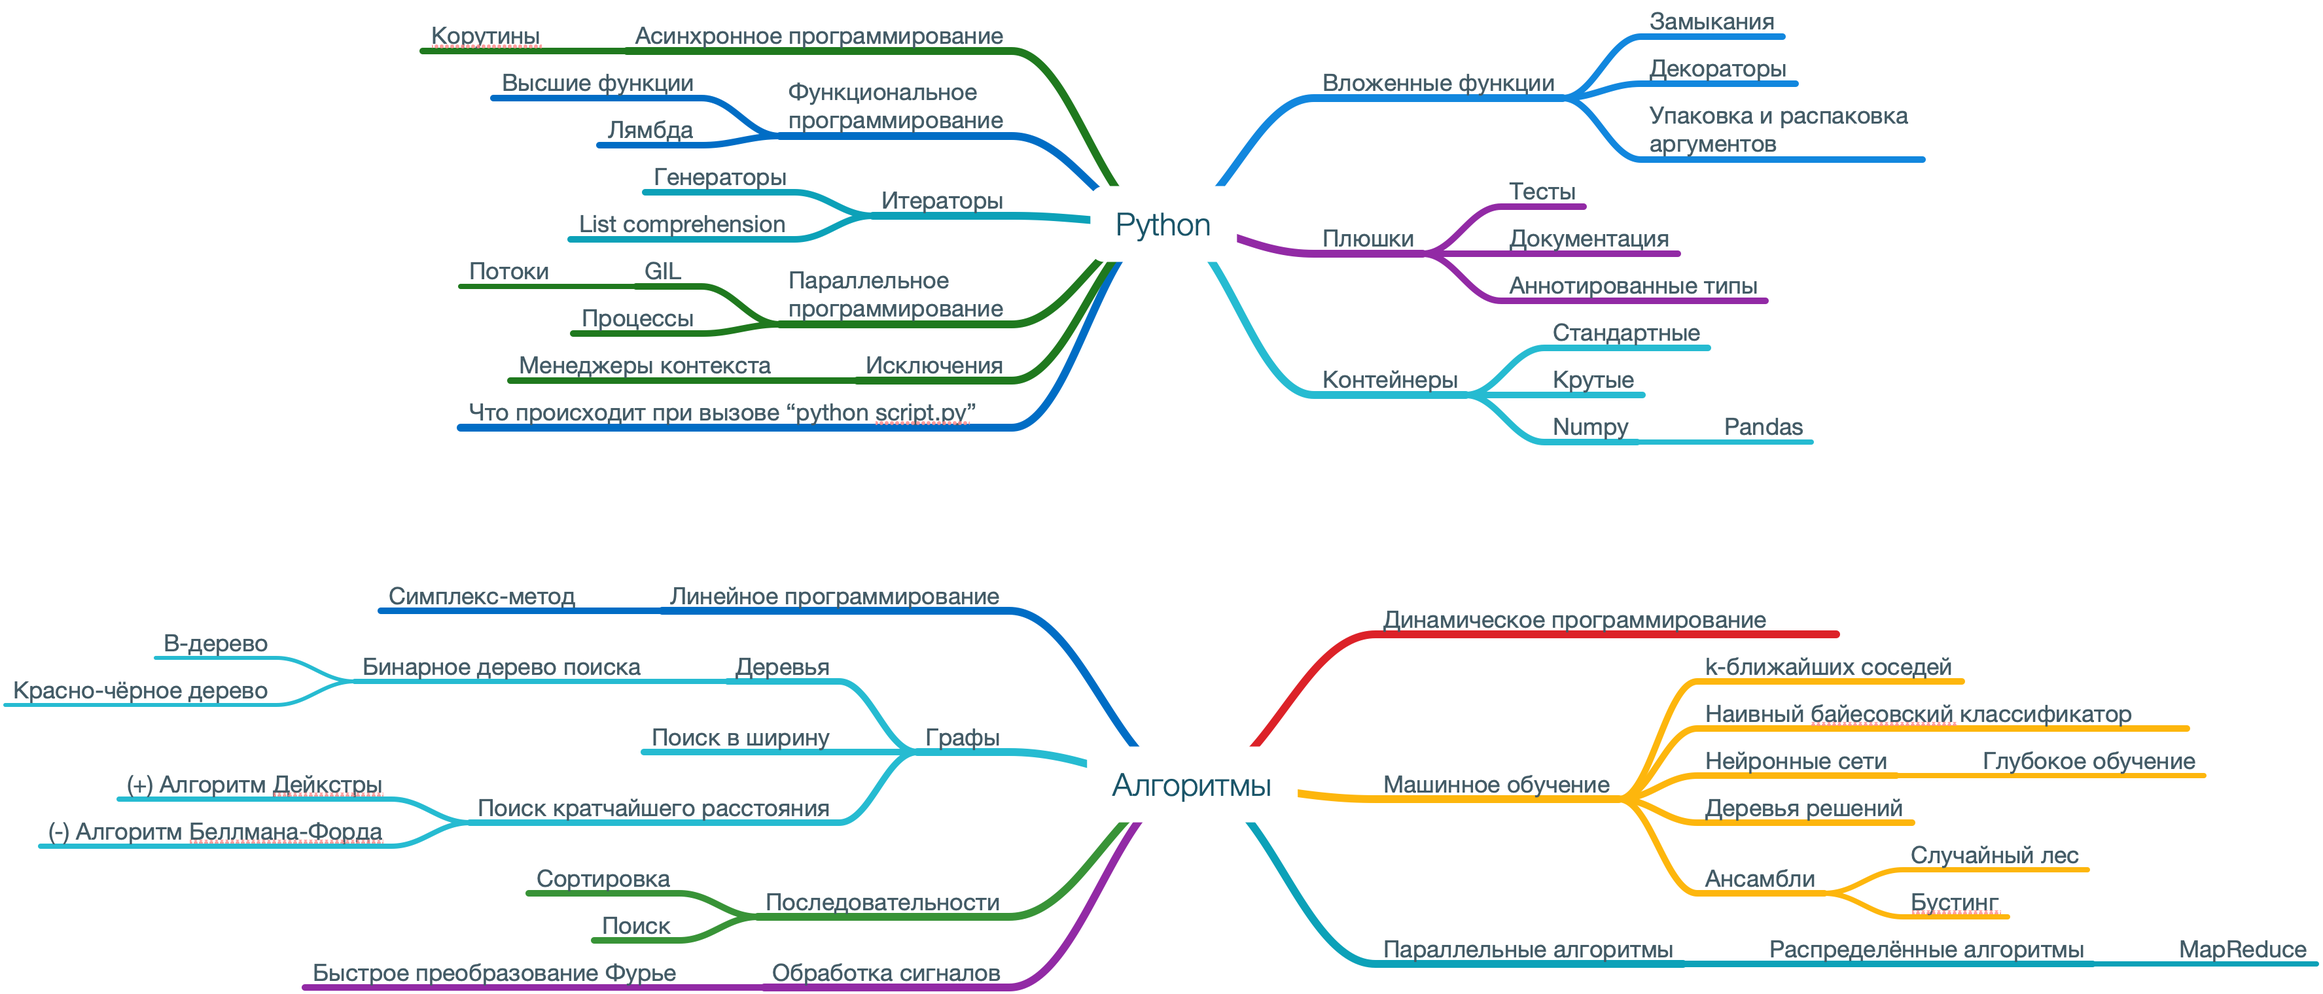
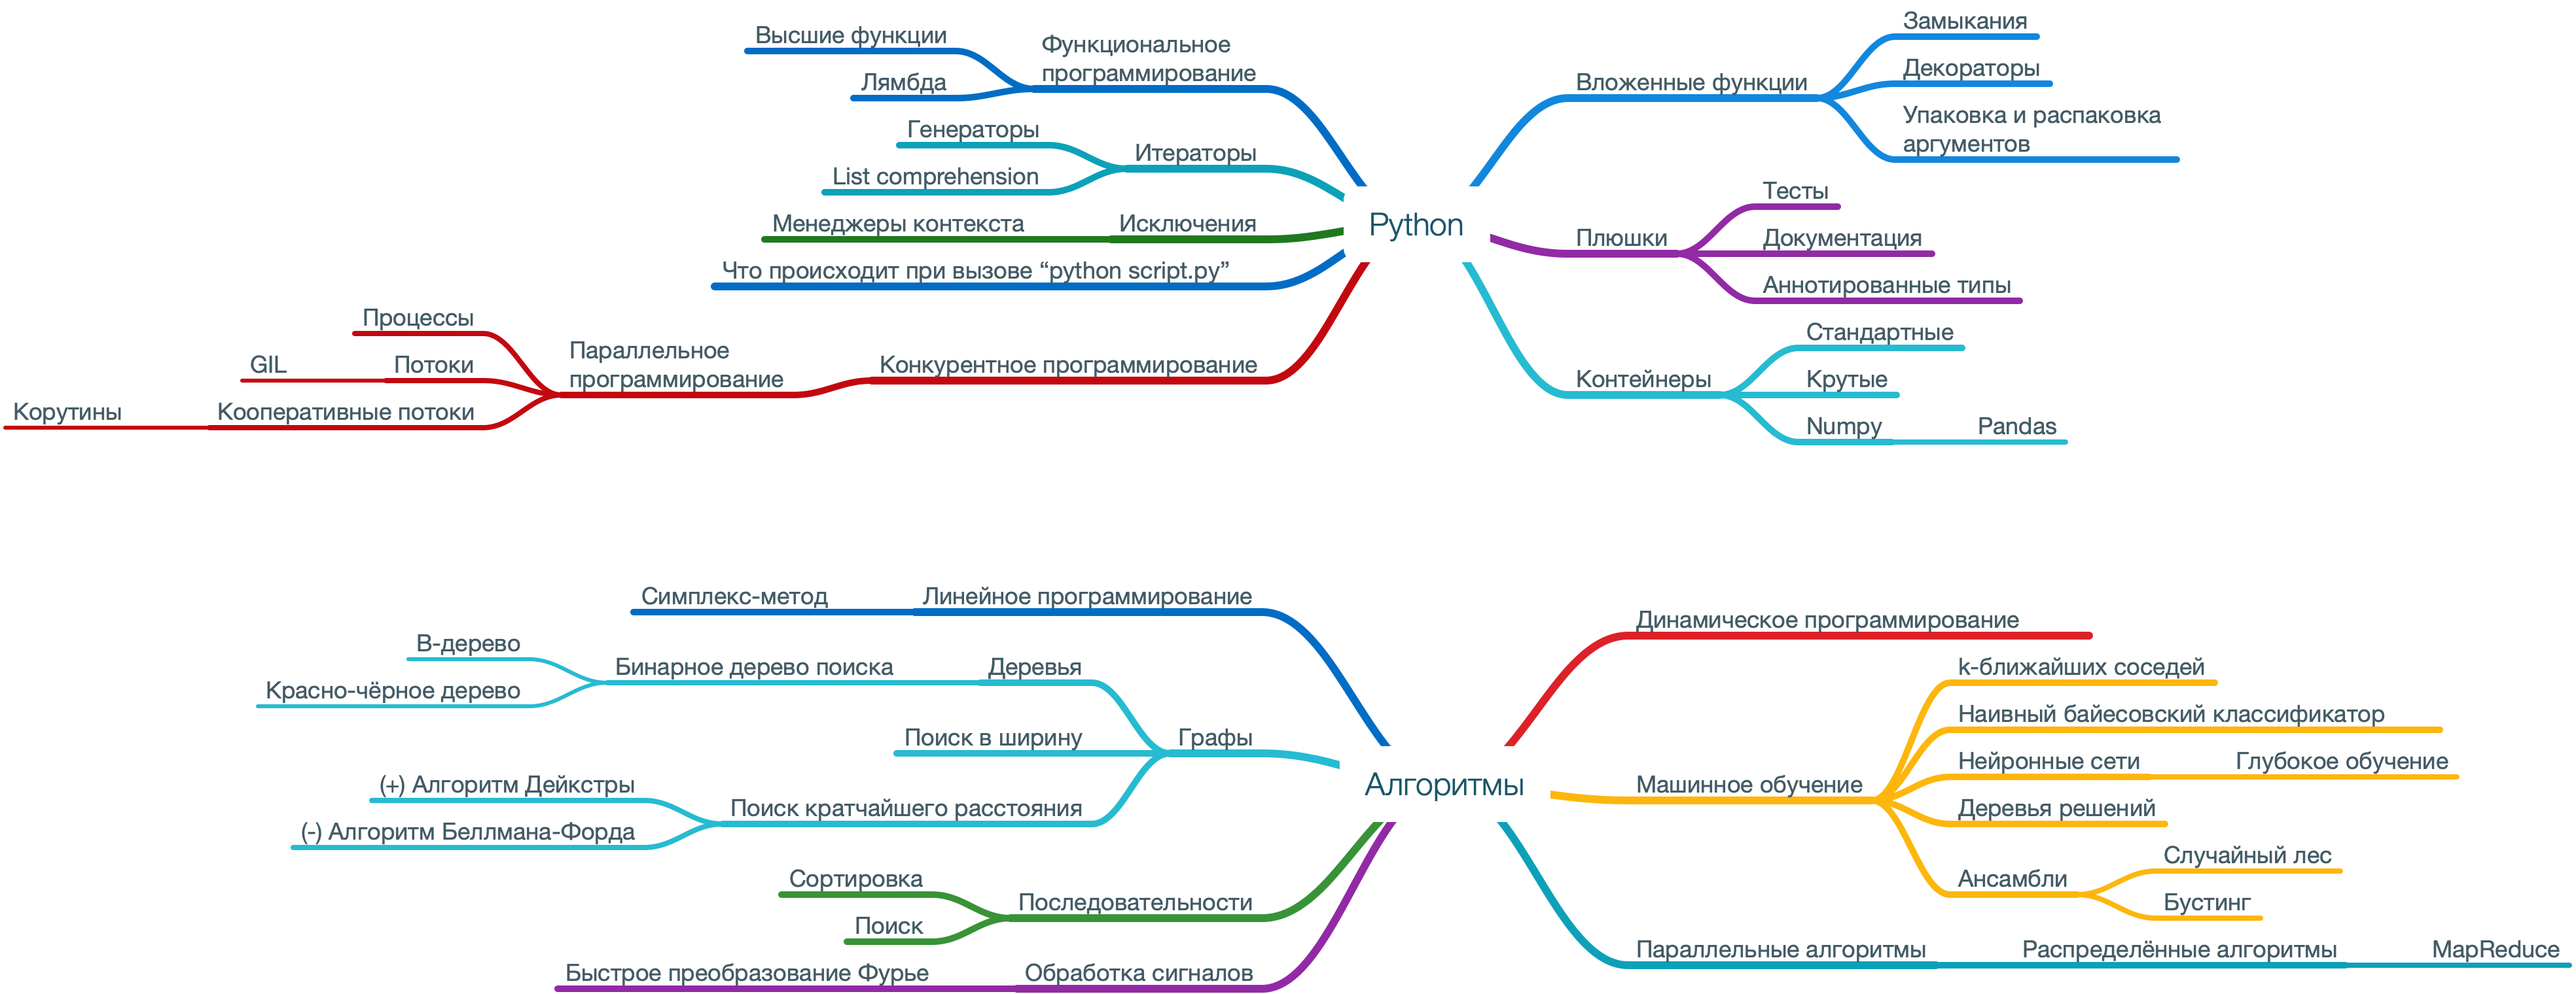
refact(syllabus): change structure (concurrent)

Changed region(s): [[0.0, 0.5875, 1.0, 1.0], [0.0, 0.0, 0.8366, 0.4638], [0.5268, 0.7112, 0.5577, 0.7421]]

diff --git a/syllabus/syllabus.mm b/syllabus/syllabus.mm
@@ -11,20 +11,21 @@
 <node ID="4914A1A3-D3C8-4916-B5EC-4465EC121BB1" TEXT="Numpy" COLOR="#435B66" POSITION="right" STYLE="fork"><edge COLOR="#25BAD1" WIDTH="5" /><font NAME="HelveticaNeue" SIZE="18" /><node ID="6E85FA9A-EE04-4BBD-9E30-794FDA604EE5" TEXT="Pandas" COLOR="#435B66" POSITION="right" STYLE="fork"><edge COLOR="#25BAD1" WIDTH="4" /><font NAME="HelveticaNeue" SIZE="18" /></node>
 </node>
 </node>
+<node ID="6754BD95-4182-4B3D-8F00-1810D59CEC2F" TEXT="&#1050;&#1086;&#1085;&#1082;&#1091;&#1088;&#1077;&#1085;&#1090;&#1085;&#1086;&#1077; &#1087;&#1088;&#1086;&#1075;&#1088;&#1072;&#1084;&#1084;&#1080;&#1088;&#1086;&#1074;&#1072;&#1085;&#1080;&#1077;" COLOR="#435B66" POSITION="left" STYLE="fork"><edge COLOR="#C2080E" WIDTH="6" /><font NAME="HelveticaNeue" SIZE="18" /><node ID="66A47761-E77B-493F-B1D4-94261B262399" TEXT="&#1055;&#1072;&#1088;&#1072;&#1083;&#1083;&#1077;&#1083;&#1100;&#1085;&#1086;&#1077; &#1087;&#1088;&#1086;&#1075;&#1088;&#1072;&#1084;&#1084;&#1080;&#1088;&#1086;&#1074;&#1072;&#1085;&#1080;&#1077;" COLOR="#435B66" POSITION="left" STYLE="fork"><edge COLOR="#C2080E" WIDTH="5" /><font NAME="HelveticaNeue" SIZE="18" /><node ID="8BE22D6B-E8D3-4302-A9FA-6F79E8D7E5BE" TEXT="&#1055;&#1088;&#1086;&#1094;&#1077;&#1089;&#1089;&#1099;" COLOR="#435B66" POSITION="left" STYLE="fork"><edge COLOR="#C2080E" WIDTH="4" /><font NAME="HelveticaNeue" SIZE="18" /></node>
+<node ID="86AAF1B8-3C6A-4707-A266-716EDDB0474A" TEXT="&#1055;&#1086;&#1090;&#1086;&#1082;&#1080;" COLOR="#435B66" POSITION="left" STYLE="fork"><edge COLOR="#C2080E" WIDTH="4" /><font NAME="HelveticaNeue" SIZE="18" /><node ID="9A3A2B6B-5128-4739-B226-1E0295A96310" TEXT="GIL" COLOR="#435B66" POSITION="left" STYLE="fork"><edge COLOR="#C2080E" WIDTH="3" /><font NAME="HelveticaNeue" SIZE="18" /></node>
+</node>
+<node ID="165CEF05-E71B-45F9-ABF7-5D7DF8C6F408" TEXT="&#1050;&#1086;&#1086;&#1087;&#1077;&#1088;&#1072;&#1090;&#1080;&#1074;&#1085;&#1099;&#1077; &#1087;&#1086;&#1090;&#1086;&#1082;&#1080;" COLOR="#435B66" POSITION="left" STYLE="fork"><edge COLOR="#C2080E" WIDTH="4" /><font NAME="HelveticaNeue" SIZE="18" /><node ID="AE547C02-1C89-4541-ADF3-5EDC9BA7C2FD" TEXT="&#1050;&#1086;&#1088;&#1091;&#1090;&#1080;&#1085;&#1099;" COLOR="#435B66" POSITION="left" STYLE="fork"><edge COLOR="#C2080E" WIDTH="3" /><font NAME="HelveticaNeue" SIZE="18" /></node>
+</node>
+</node>
+</node>
 <node ID="9AE8308B-0A88-42BA-883C-6E2BC09299FC" TEXT="&#1063;&#1090;&#1086; &#1087;&#1088;&#1086;&#1080;&#1089;&#1093;&#1086;&#1076;&#1080;&#1090; &#1087;&#1088;&#1080; &#1074;&#1099;&#1079;&#1086;&#1074;&#1077; &#8220;python script.py&#8221;" COLOR="#435B66" POSITION="left" STYLE="fork"><edge COLOR="#FFFFFFF96DC4" WIDTH="6" /><font NAME="HelveticaNeue" SIZE="18" /></node>
 <node ID="3A136F90-0D0A-4A54-996C-5917B5346931" TEXT="&#1048;&#1089;&#1082;&#1083;&#1102;&#1095;&#1077;&#1085;&#1080;&#1103;" COLOR="#435B66" POSITION="left" STYLE="fork"><edge COLOR="#1E791D" WIDTH="6" /><font NAME="HelveticaNeue" SIZE="18" /><node ID="5353EF42-4396-4D8C-A4C2-7AAA2B005B3D" TEXT="&#1052;&#1077;&#1085;&#1077;&#1076;&#1078;&#1077;&#1088;&#1099; &#1082;&#1086;&#1085;&#1090;&#1077;&#1082;&#1089;&#1090;&#1072;" COLOR="#435B66" POSITION="left" STYLE="fork"><edge COLOR="#1E791D" WIDTH="5" /><font NAME="HelveticaNeue" SIZE="18" /></node>
-</node>
-<node ID="66A47761-E77B-493F-B1D4-94261B262399" TEXT="&#1055;&#1072;&#1088;&#1072;&#1083;&#1083;&#1077;&#1083;&#1100;&#1085;&#1086;&#1077; &#1087;&#1088;&#1086;&#1075;&#1088;&#1072;&#1084;&#1084;&#1080;&#1088;&#1086;&#1074;&#1072;&#1085;&#1080;&#1077;" COLOR="#435B66" POSITION="left" STYLE="fork"><edge COLOR="#1E791D" WIDTH="6" /><font NAME="HelveticaNeue" SIZE="18" /><node ID="9A3A2B6B-5128-4739-B226-1E0295A96310" TEXT="GIL" COLOR="#435B66" POSITION="left" STYLE="fork"><edge COLOR="#1E791D" WIDTH="5" /><font NAME="HelveticaNeue" SIZE="18" /><node ID="86AAF1B8-3C6A-4707-A266-716EDDB0474A" TEXT="&#1055;&#1086;&#1090;&#1086;&#1082;&#1080;" COLOR="#435B66" POSITION="left" STYLE="fork"><edge COLOR="#1E791D" WIDTH="4" /><font NAME="HelveticaNeue" SIZE="18" /></node>
-</node>
-<node ID="8BE22D6B-E8D3-4302-A9FA-6F79E8D7E5BE" TEXT="&#1055;&#1088;&#1086;&#1094;&#1077;&#1089;&#1089;&#1099;" COLOR="#435B66" POSITION="left" STYLE="fork"><edge COLOR="#1E791D" WIDTH="5" /><font NAME="HelveticaNeue" SIZE="18" /></node>
 </node>
 <node ID="4DFD10A2-0723-4BFA-BD3E-AE9DD8A9BE47" TEXT="&#1048;&#1090;&#1077;&#1088;&#1072;&#1090;&#1086;&#1088;&#1099;" COLOR="#435B66" POSITION="left" STYLE="fork"><edge COLOR="#0CA1B7" WIDTH="6" /><font NAME="HelveticaNeue" SIZE="18" /><node ID="C31E5DC9-A7F6-4822-9FB4-04D899892C25" TEXT="&#1043;&#1077;&#1085;&#1077;&#1088;&#1072;&#1090;&#1086;&#1088;&#1099;" COLOR="#435B66" POSITION="left" STYLE="fork"><edge COLOR="#0CA1B7" WIDTH="5" /><font NAME="HelveticaNeue" SIZE="18" /></node>
 <node ID="B864BCEE-B2E5-4611-850F-19069CE025E5" TEXT="List comprehension" COLOR="#435B66" POSITION="left" STYLE="fork"><edge COLOR="#0CA1B7" WIDTH="5" /><font NAME="HelveticaNeue" SIZE="18" /></node>
 </node>
 <node ID="AC5FD80B-E912-40C0-8AD0-8BE72EB3E52E" TEXT="&#1060;&#1091;&#1085;&#1082;&#1094;&#1080;&#1086;&#1085;&#1072;&#1083;&#1100;&#1085;&#1086;&#1077; &#1087;&#1088;&#1086;&#1075;&#1088;&#1072;&#1084;&#1084;&#1080;&#1088;&#1086;&#1074;&#1072;&#1085;&#1080;&#1077;" COLOR="#435B66" POSITION="left" STYLE="fork"><edge COLOR="#FFFFFFF96DC4" WIDTH="6" /><font NAME="HelveticaNeue" SIZE="18" /><node ID="43519BC4-B119-4496-8AB8-5BD52759E6C2" TEXT="&#1042;&#1099;&#1089;&#1096;&#1080;&#1077; &#1092;&#1091;&#1085;&#1082;&#1094;&#1080;&#1080;" COLOR="#435B66" POSITION="left" STYLE="fork"><edge COLOR="#FFFFFFF96DC4" WIDTH="5" /><font NAME="HelveticaNeue" SIZE="18" /></node>
 <node ID="A69CE892-3B4A-46F9-9709-021C9DD6165F" TEXT="&#1051;&#1103;&#1084;&#1073;&#1076;&#1072;" COLOR="#435B66" POSITION="left" STYLE="fork"><edge COLOR="#FFFFFFF96DC4" WIDTH="5" /><font NAME="HelveticaNeue" SIZE="18" /></node>
-</node>
-<node ID="8BC8C82E-9962-489D-BABC-7269F31B2695" TEXT="&#1040;&#1089;&#1080;&#1085;&#1093;&#1088;&#1086;&#1085;&#1085;&#1086;&#1077; &#1087;&#1088;&#1086;&#1075;&#1088;&#1072;&#1084;&#1084;&#1080;&#1088;&#1086;&#1074;&#1072;&#1085;&#1080;&#1077;" COLOR="#435B66" POSITION="left" STYLE="fork"><edge COLOR="#1E791D" WIDTH="6" /><font NAME="HelveticaNeue" SIZE="18" /><node ID="AE547C02-1C89-4541-ADF3-5EDC9BA7C2FD" TEXT="&#1050;&#1086;&#1088;&#1091;&#1090;&#1080;&#1085;&#1099;" COLOR="#435B66" POSITION="left" STYLE="fork"><edge COLOR="#1E791D" WIDTH="5" /><font NAME="HelveticaNeue" SIZE="18" /></node>
 </node>
 </node>
 <node ID="05D69DCE-BC29-4180-AEC7-58F980B44084" BACKGROUND_COLOR="#FFFFFF" TEXT="&#1040;&#1083;&#1075;&#1086;&#1088;&#1080;&#1090;&#1084;&#1099;" COLOR="#1A5569" POSITION="right" STYLE="bubble"><edge COLOR="#1A5469" WIDTH="4" /><font NAME="HelveticaNeue-Light" SIZE="24" /><node ID="9CC39741-769A-455E-8AC3-24665DF8F012" TEXT="&#1044;&#1080;&#1085;&#1072;&#1084;&#1080;&#1095;&#1077;&#1089;&#1082;&#1086;&#1077; &#1087;&#1088;&#1086;&#1075;&#1088;&#1072;&#1084;&#1084;&#1080;&#1088;&#1086;&#1074;&#1072;&#1085;&#1080;&#1077;" COLOR="#435B66" POSITION="right" STYLE="fork"><edge COLOR="#DC2128" WIDTH="6" /><font NAME="HelveticaNeue" SIZE="18" /></node>
